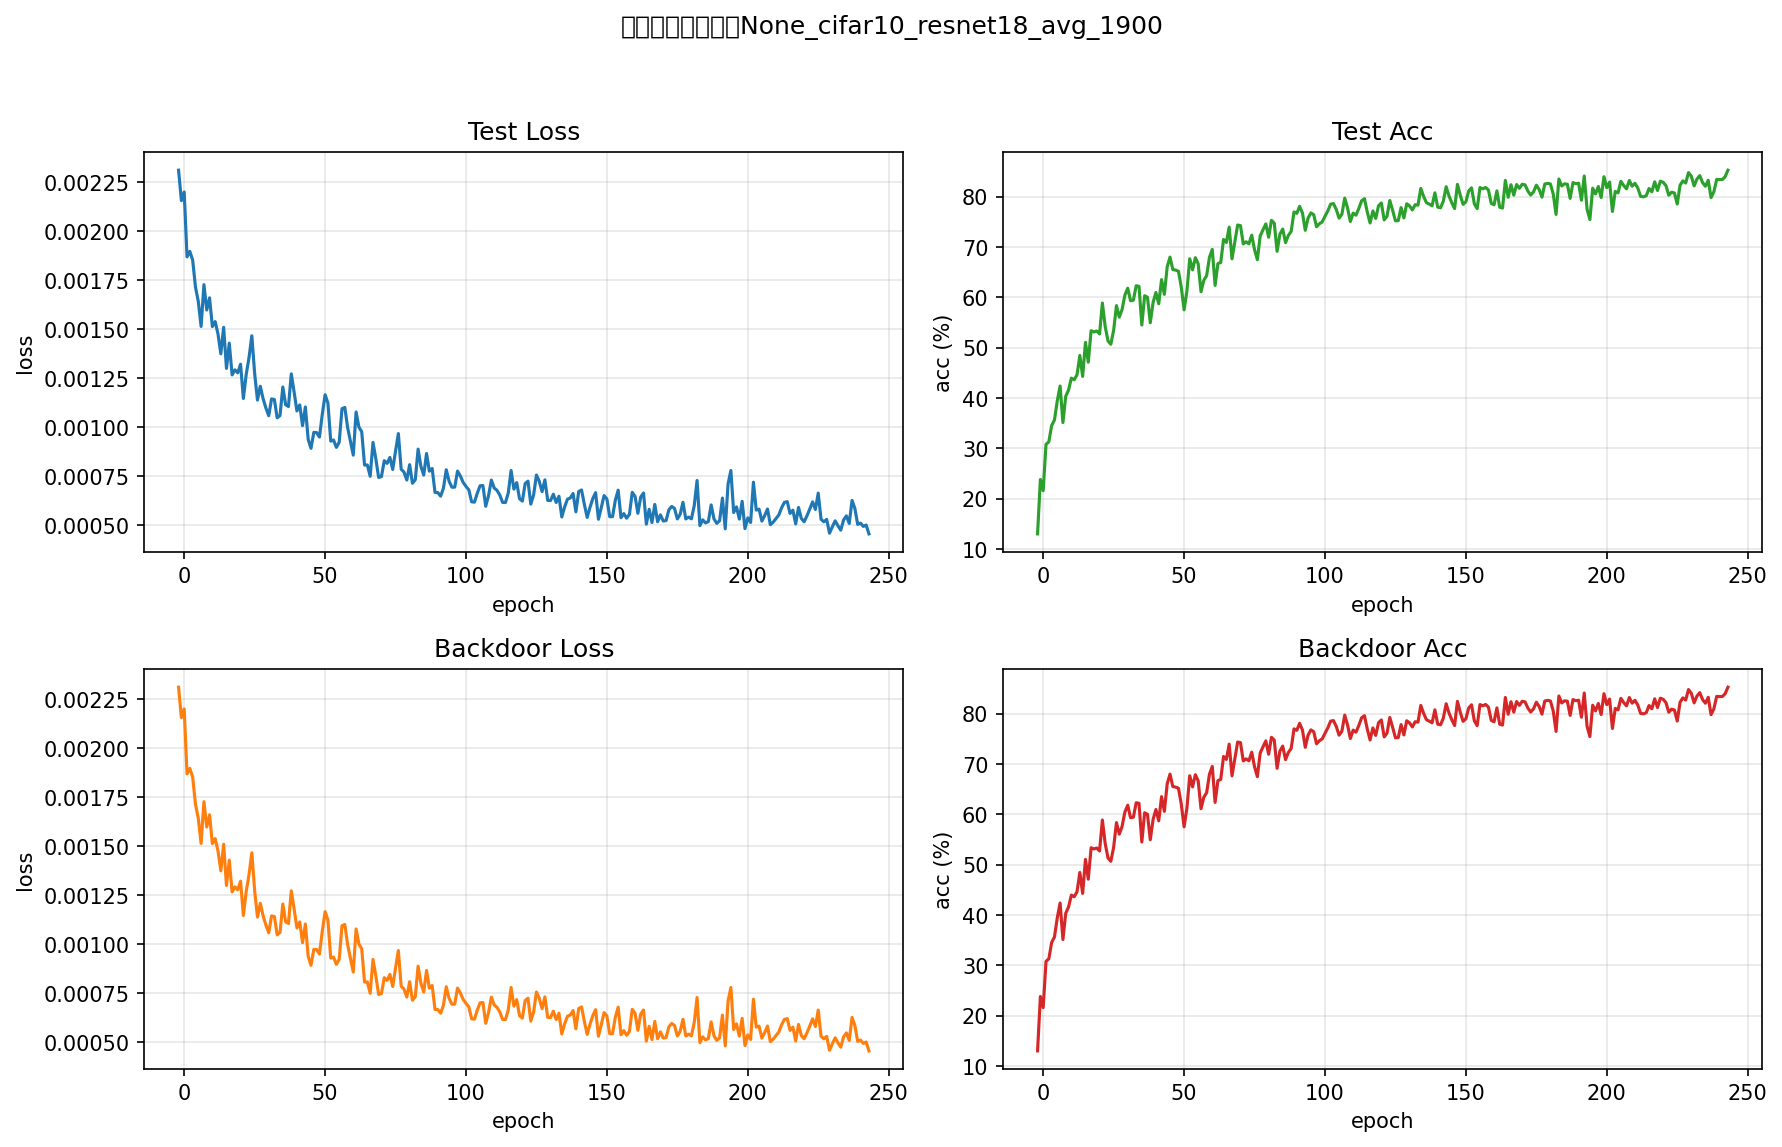
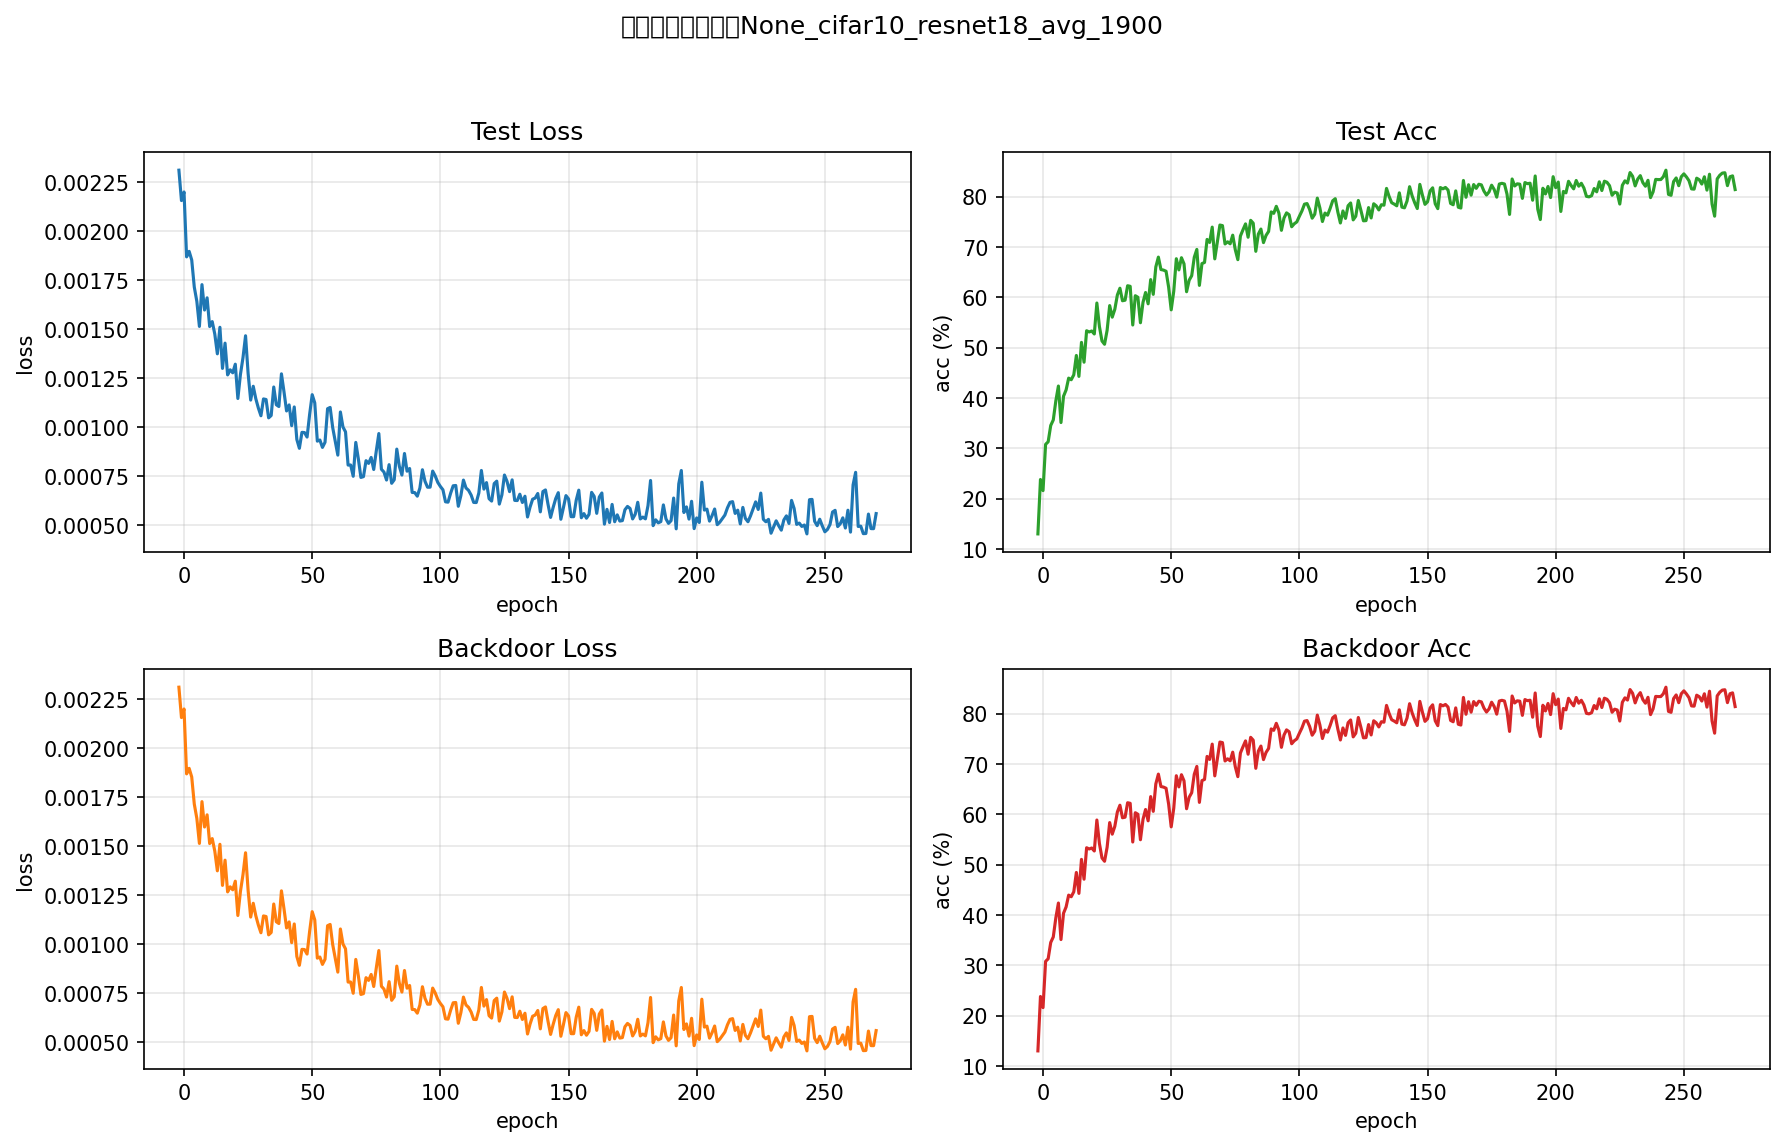
-

diff --git a/README.md b/README.md
@@ -15,7 +15,7 @@ pip install -r requirement.txt
 ```
 cd main
 
-python clean.py --gpu 0 --params configs/config.yaml
+python clean.py --gpu 0 --params configs/pretrain_cifar10_resnet18.yaml
 ```
 
 ### Citation
